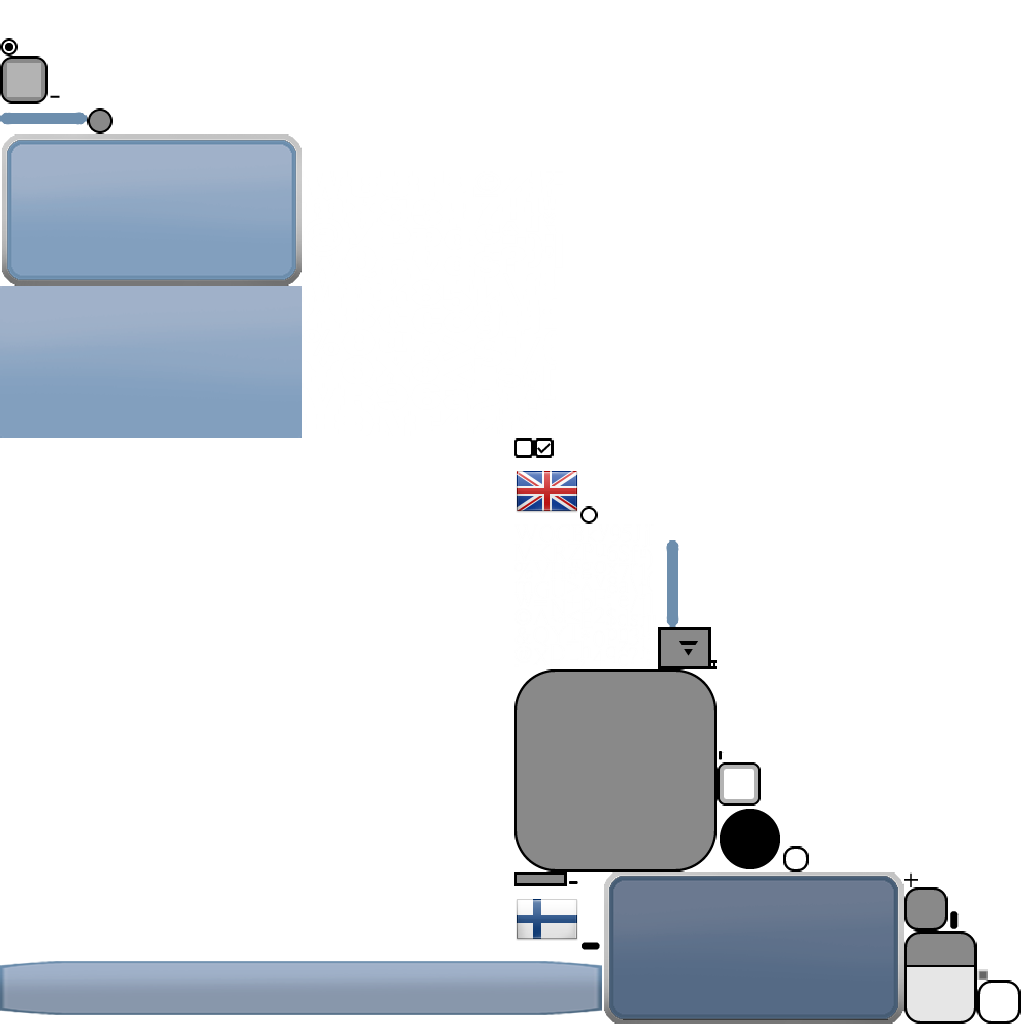
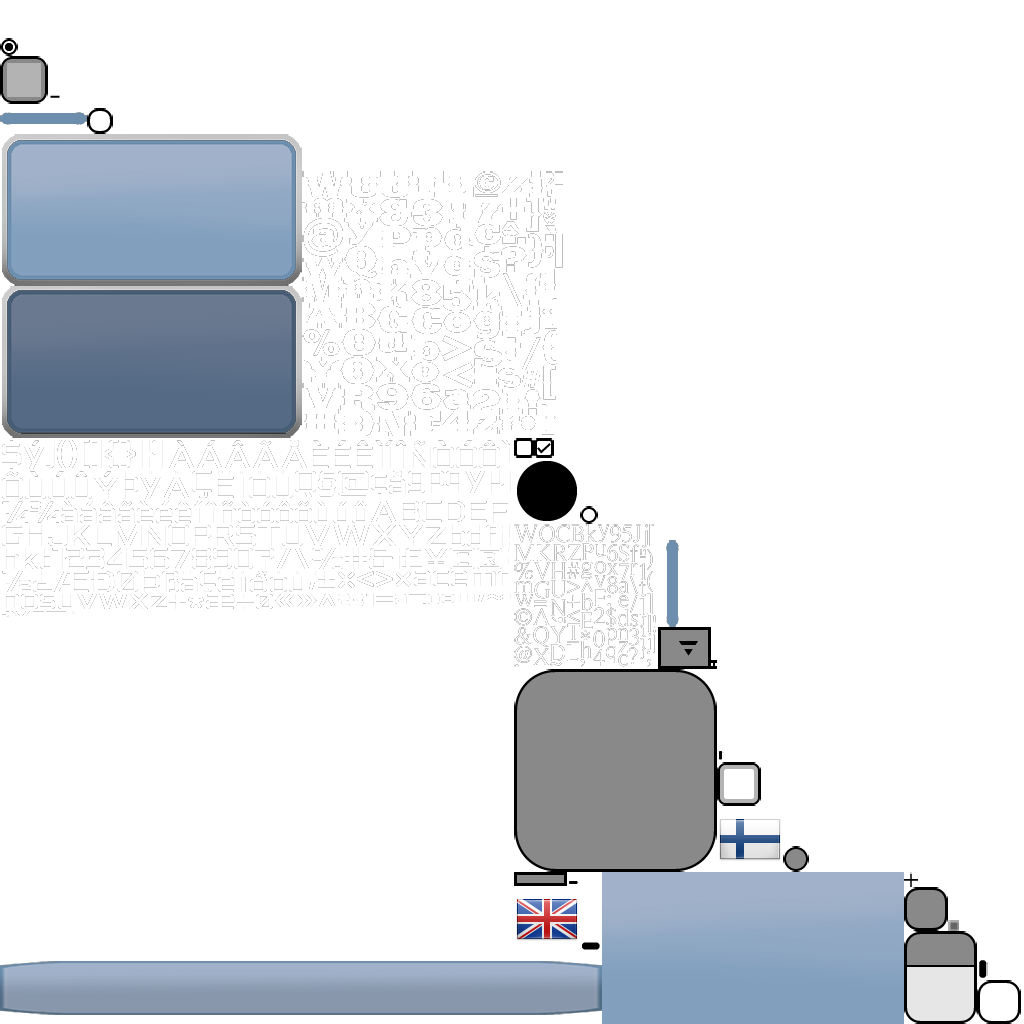
Skin files updated, some javadoc added, little code refactoring.

diff --git a/core/src/com/mygdx/audioryder/screens/GameScreen.java b/core/src/com/mygdx/audioryder/screens/GameScreen.java
@@ -3,16 +3,12 @@ package com.mygdx.audioryder.screens;
 import com.badlogic.gdx.Gdx;
 import com.badlogic.gdx.InputAdapter;
 import com.badlogic.gdx.Screen;
-import com.badlogic.gdx.audio.Music;
 import com.badlogic.gdx.graphics.Color;
 import com.badlogic.gdx.graphics.GL20;
-import com.badlogic.gdx.graphics.OrthographicCamera;
 import com.badlogic.gdx.graphics.PerspectiveCamera;
 import com.badlogic.gdx.graphics.Texture;
 import com.badlogic.gdx.graphics.g3d.Model;
 import com.badlogic.gdx.graphics.g3d.ModelBatch;
-import com.badlogic.gdx.graphics.g3d.particles.ParticleEffect;
-import com.badlogic.gdx.graphics.g3d.particles.ParticleEffectLoader;
 import com.badlogic.gdx.graphics.g3d.particles.ParticleSystem;
 import com.badlogic.gdx.graphics.g3d.particles.batches.PointSpriteParticleBatch;
 import com.badlogic.gdx.graphics.glutils.ShapeRenderer;
@@ -32,7 +28,6 @@ import com.mygdx.audioryder.objects.BackgroundObject;
 import com.mygdx.audioryder.objects.GameObject;
 import com.mygdx.audioryder.objects.GroundLine;
 import com.mygdx.audioryder.objects.Note;
-import com.mygdx.audioryder.objects.BackgroundObject;
 import com.mygdx.audioryder.objects.Skydome;
 import com.mygdx.audioryder.objects.SpaceShip;
 import com.mygdx.audioryder.properties.Properties;
@@ -45,22 +40,59 @@ import java.util.ArrayList;
  * Created by Teemu on 1.3.2018.
  */
 
+/**
+ * This class contains the logid and rendering
+ * of our game. It handles everything that is needed
+ * in the gameplay view "GameScreen".
+ *
+ * @author Teemu Salminen
+ * @author Joonas Salojärvi
+ */
 public class GameScreen implements Screen {
 
     //TODO: PARTICLE FUCKING EFFECTS VOI VITTU I FUCK EMMI :---D
 
     AudioRyder game;
 
+    /**
+     * This ArrayList contains all the GameObjects in our game.
+     */
     public ArrayList<GameObject> gameObjects = new ArrayList<GameObject>();
+
+    /**
+     * This ArrayList contain all the GameObjects that are going to be removed from
+     * the gameObjects ArrayList after every iteration.
+     */
     public ArrayList<GameObject> gameObjectsToRemove = new ArrayList<GameObject>();
 
+    /**
+     * This ArrayList contains all the active Notes of our game.
+     */
     public ArrayList<Note> notes = new ArrayList<Note>();
+
+    /**
+     * This ArrayList contains all the Notes that are going to be removed
+     * from the notes ArrayList and this is action is done every iteration.
+     */
     public ArrayList<Note> notesToRemove = new ArrayList<Note>();
 
+    /**
+     * This ArrayList contains all the GroundLine objects of our game.
+     * To be more precise GroundLines are the "roads" which the spaceship
+     * will fly on.
+     */
     public ArrayList<GroundLine> groundLines = new ArrayList<GroundLine>();
 
+    /**
+     * This PerspectiveCamera is used for our GameScreen to
+     * render our 3D world and 3D objects.
+     */
     PerspectiveCamera cam3D;
 
+    /**
+     * This is the ModelBatch our game uses for our
+     * models.
+     */
     ModelBatch modelBatch;
 
     /**
@@ -70,12 +102,11 @@ public class GameScreen implements Screen {
      */
     public Model[] pyramids = new Model[3];
 
+    /**
+     * This is the SpaceShip Object of our game.
+     */
     private SpaceShip spaceShip;
 
-    Texture hit;
-    Texture miss;
-
-    float levelTimer = 0f;
     boolean GAME_PAUSED;
 
     Stage pauseStage;
@@ -83,23 +114,17 @@ public class GameScreen implements Screen {
     Viewport viewport;
     Skin testSkin;
 
-    TextButton continueGame;
-    TextButton settings;
-    TextButton restart;
-    TextButton exit;
-    Table pauseMenuTable;
-    Label score;
+    /**
+     * This Label is the Score text on top of the screen in the game.
+     */
+    private Label score;
 
+    //TODO: REMOVE THIS BEFORE GOOGLE PLAY
     ShapeRenderer shapeRenderer;
 
     public GameScreen(AudioRyder game) {
         this.game = game;
     }
-
-    // ParticleSystem is a singleton class, we get the instance instead of creating a new object:
-    public ParticleSystem particleSystem = ParticleSystem.get();
-    // Since our particle effects are PointSprites, we create a PointSpriteParticleBatch
-    public PointSpriteParticleBatch pointSpriteBatch = new PointSpriteParticleBatch();
 
     @Override
     public void show() {
@@ -169,10 +194,7 @@ public class GameScreen implements Screen {
             //Using the songhandler now, this will become usefull when we add multiple levels and
             //a loading screen from main menu to game.
             SongHandler.setupSong(game, game.currentSong);
-            SongHandler.currentSong.play();
-
-            hit = new Texture("hit.png");
-            miss = new Texture("miss.png");
+            SongHandler.gameMusic.play();
 
             viewport = new FitViewport(game.ORTHOCAM_VIEWPORT_WIDTH, game.ORTHOCAM_VIEWPORT_HEIGHT, game.cam2D);
             viewport.apply();
@@ -199,7 +221,7 @@ public class GameScreen implements Screen {
             public void clicked(InputEvent event, float x, float y) {
                 GAME_PAUSED = true;
                 pauseButton.setChecked(false);
-                SongHandler.currentSong.pause();
+                SongHandler.gameMusic.pause();
             }
         });
         gameOverlay.addActor(pauseButton);
@@ -211,40 +233,39 @@ public class GameScreen implements Screen {
     }
 
     private void setupPauseStage() {
-
         pauseStage = new Stage(viewport, game.batch);
 
-
-        pauseMenuTable = new Table();
+        Table pauseMenuTable = new Table();
         pauseMenuTable.setFillParent(true);
 
-
-        continueGame = new TextButton(Properties.continueText,testSkin);
+        TextButton continueGame = new TextButton(Properties.continueText,testSkin);
         continueGame.setSize(300f,80f);
-        settings = new TextButton(Properties.settingsText,testSkin);
+
+        TextButton settings = new TextButton(Properties.settingsText,testSkin);
         settings.setSize(300f,80f);
-        restart = new TextButton(Properties.restartText,testSkin);
+
+        TextButton restart = new TextButton(Properties.restartText,testSkin);
         restart.setSize(300f,80f);
+
         if(Properties.currentLocale == Properties.localeFI) {
             restart.getLabel().setFontScale(0.9f,0.9f);
         }
-        exit = new TextButton(Properties.exitText,testSkin);
+
+        TextButton exit = new TextButton(Properties.exitText,testSkin);
         exit.setSize(300f,80f);
 
         continueGame.addListener(new ClickListener(){
             public void clicked(InputEvent event, float x, float y) {
                 GAME_PAUSED = false;
                 Gdx.input.setInputProcessor(gameOverlay);
-                continueGame.setChecked(false);
-                SongHandler.currentSong.play();
+                SongHandler.gameMusic.play();
             }
         });
 
         settings.addListener(new ClickListener(){
             @Override
             public void clicked(InputEvent event, float x, float y) {
-                settings.setChecked(false);
-                SongHandler.currentSong.pause();
+                SongHandler.gameMusic.pause();
                 game.setScreen(game.mainMenuScreen);
                 game.mainMenuScreen.currentStage = game.mainMenuScreen.settingsStage;
                 Gdx.input.setInputProcessor(game.mainMenuScreen.currentStage);
@@ -266,9 +287,8 @@ public class GameScreen implements Screen {
                 game.songTimer = 0f;
                 SongHandler.setupSong(game,game.currentSong);
                 Gdx.input.setInputProcessor(gameOverlay);
-                SongHandler.currentSong.play();
+                SongHandler.gameMusic.play();
                 GAME_PAUSED = false;
-                restart.setChecked(false);
             }
         });
 
@@ -278,7 +298,6 @@ public class GameScreen implements Screen {
                 dispose();
                 game.score = 0;
                 game.setScreen(game.mainMenuScreen);
-                exit.setChecked(false);
                 game.GAME_IS_ON = false;
             }
         });
@@ -326,7 +345,6 @@ public class GameScreen implements Screen {
             modelBatch.render(particleSystem);*/
 
             modelBatch.end();
-            levelTimer += Gdx.graphics.getDeltaTime();
 
 
             /* Spawning and removing the groundlines: */
@@ -353,10 +371,10 @@ public class GameScreen implements Screen {
             gameOverlay.draw();
 
 
-            if (!(SongHandler.currentSong.isPlaying())) {
+            if (!(SongHandler.gameMusic.isPlaying())) {
                 game.GAME_IS_ON = false;
                 dispose();
-                SongHandler.currentSong.stop();
+                SongHandler.gameMusic.stop();
                 game.endScreen = new EndScreen(game,game.score, game.currentSong);
                 game.setScreen(game.endScreen);
             }
@@ -371,8 +389,8 @@ public class GameScreen implements Screen {
         if(levelTimer > 2f){
             game.GAME_IS_ON = false;
             dispose();
-            SongHandler.currentSong.stop();
-            game.endScreen = new EndScreen(game,1234567897, game.currentSong);
+            SongHandler.gameMusic.stop();
+            game.endScreen = new EndScreen(game,1234567897, game.gameMusic);
             game.setScreen(game.endScreen);
         }*/
 
@@ -428,13 +446,12 @@ public class GameScreen implements Screen {
         hit.dispose();
         miss.dispose();
         shapeRenderer.dispose();*/
-
-        levelTimer = 0f;
         game.songTimer = 0f;
         modelBatch.dispose();
         spaceShip.dispose();
     }
 
+    //TODO: REMOVE THIS BEFORE GOOGLE PLAY
     public void drawTextAndSprites(){
         game.batch.begin();
 

diff --git a/core/src/com/mygdx/audioryder/screens/MainMenuScreen.java b/core/src/com/mygdx/audioryder/screens/MainMenuScreen.java
@@ -179,14 +179,12 @@ public class MainMenuScreen implements Screen {
             public void clicked(InputEvent event, float x, float y) {
                 //game.loadingScreen = new LoadingScreen(game);
                 //game.setScreen(game.loadingScreen);
-                playButton.setChecked(false);
                 setCurrentStage(selectSongStage);
             }
         });
         settingsButton.addListener(new ClickListener() {
             @Override
             public void clicked(InputEvent event, float x, float y) {
-                settingsButton.setChecked(false);
                 setCurrentStage(settingsStage);
             }
         });
@@ -288,14 +286,13 @@ public class MainMenuScreen implements Screen {
 
         selectSongStage.addActor(songTable);
 
-        /* Initializing the game.currentSong to the first song in the songlist: */
+        /* Initializing the game.gameMusic to the first song in the songlist: */
         game.currentSong = game.songList.get(0);
 
         /* Adding listeners for return and play: */
         playButtonn.addListener(new ClickListener() {
             @Override
             public void clicked(InputEvent event, float x, float y) {
-                playButtonn.setChecked(false);
                 game.levelLoadingScreen = new LevelLoadingScreen(game, game.currentSong);
                 game.setScreen(game.levelLoadingScreen);
             }
@@ -304,7 +301,6 @@ public class MainMenuScreen implements Screen {
         returnButton.addListener(new ClickListener() {
             @Override
             public void clicked(InputEvent event, float x, float y) {
-                returnButton.setChecked(false);
                 setCurrentStage(mainStage);
             }
         });
@@ -396,7 +392,6 @@ public class MainMenuScreen implements Screen {
             @Override
             public void clicked(InputEvent event, float x, float y) {
                 super.clicked(event, x, y);
-                calibrateButton.setChecked(false);
                 game.xCalib = Gdx.input.getAccelerometerY();
                 game.yCalib = Gdx.input.getAccelerometerZ();
             }
@@ -466,10 +461,8 @@ public class MainMenuScreen implements Screen {
                 game.userSettings.flush();
 
                 if(game.GAME_IS_ON) {
-                    returnButton.setChecked(false);
                     game.setScreen(game.gameScreen);
                 } else {
-                    returnButton.setChecked(false);
                     setCurrentStage(mainStage);
                 }
             }

diff --git a/core/src/com/mygdx/audioryder/song/SongHandler.java b/core/src/com/mygdx/audioryder/song/SongHandler.java
@@ -12,7 +12,7 @@ import com.mygdx.audioryder.objects.Note;
 
 public class SongHandler {
 
-    public static Music currentSong;
+    public static Music gameMusic;
     public static FileHandle currentNoteFile;
 
     private static int songPointer = 0;
@@ -21,8 +21,8 @@ public class SongHandler {
     //123test
     public static void setupSong(AudioRyder game, Song song) {
         songPointer = 0;
-        currentSong = game.assets.get(AudioRyder.SONGS_PATH + song.getSongFileString());
-        currentSong.stop();
+        gameMusic = game.assets.get(AudioRyder.SONGS_PATH + song.getSongFileString());
+        gameMusic.stop();
         currentNoteFile = song.getNoteFile();
 
         String noteData = currentNoteFile.readString();

diff --git a/core/src/com/mygdx/audioryder/song/Song.java b/core/src/com/mygdx/audioryder/song/Song.java
@@ -16,8 +16,6 @@ public class Song {
     private String songFileString;
     private String noteFileString;
 
-    //private Music soundFile;
-
     private FileHandle noteFile;
 
     public Song(String name, String songFile, String noteFile) {
